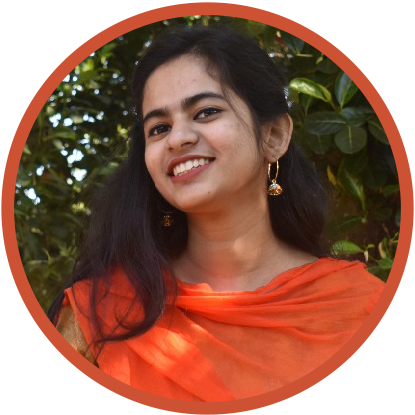
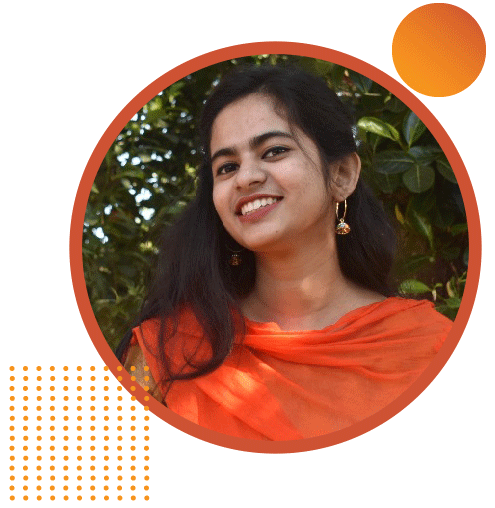
first section

diff --git a/index.html b/index.html
@@ -11,7 +11,7 @@
     <link rel="stylesheet" href="style.css">
 </head>
 <body>
-   <section>
+   <section class="section_one">
     <div class="section1_div_partition">
         <h1>Welcome to <br> <span class="name_color">Touhida Akter's</span>  Story</h1>
         <h3>UI/UX Designer and Brand Specialist at Rockstreamer PTE. LTD.</h3>

diff --git a/style.css b/style.css
@@ -1,5 +1,6 @@
 body{
     font-family: 'Poppins', sans-serif;
+    margin: 0%;
 }
 h1{
     font-size: 36px;
@@ -27,4 +28,9 @@ padding-left: 50px;
     background-color: #fb8500;
     border-radius: 8px;
     color: #f0f0f0;
+}
+.section_one {
+    background-image: url(images/top_banner.png);
+    background-repeat: no-repeat;
+
 }
